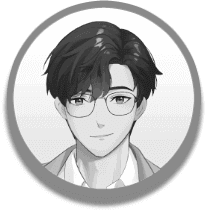
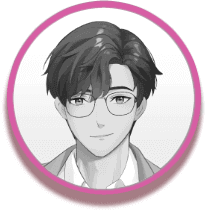
PP greyed asset changed + border 'In Progress'

diff --git a/DressupGame/src/Scripts/Loading Scene/PreloaderScene.js b/DressupGame/src/Scripts/Loading Scene/PreloaderScene.js
@@ -147,7 +147,7 @@ class PreloaderScene extends Phaser.Scene {
                 let textureToUse = '';
                 let showOutline = false;
                 let showCheckmark = false;
-            
+
                 // Tentukan state untuk bachelor ini
                 if (bachelorName === currentBachelor) {
                     textureToUse = ppData.key; // Gunakan PP berwarna
@@ -158,19 +158,15 @@ class PreloaderScene extends Phaser.Scene {
                 } else {
                     textureToUse = `${ppData.key}_Grey`; // Gunakan PP abu-abu
                 }
-            
+
                 // Gambar Outline jika perlu
                 if (showOutline && ppLayout.activeOutline) {
-                    this.add.circle(
-                        ppData.x, ppData.y,
-                        (256 / 2) * ppLayout.scale + ppLayout.activeOutline.thickness - 20,
-                        ppLayout.activeOutline.color
-                    );
+                    this.add.image(ppData.x, ppData.y, 'PP_Selected').setDepth(1).setScale(ppLayout.selectedBorderScale);
                 }
-            
+
                 // Gambar Foto Profil dengan kunci yang sudah benar
                 this.add.image(ppData.x, ppData.y, textureToUse).setScale(ppLayout.scale);
-            
+
                 // Gambar Tanda Centang jika perlu
                 if (showCheckmark) {
                     const offset = ppLayout.checkmarkOffset;

diff --git a/DressupGame/src/Scripts/ScreenOrientationUtils.js b/DressupGame/src/Scripts/ScreenOrientationUtils.js
@@ -93,6 +93,7 @@ const LANDSCAPE = {
 
     bachelorPps: {
         scale: 0.6,
+        selectedBorderScale: 0.5,
         positions: [
             { key: 'PP_Azril_Grey', x: LANDSCAPE_WIDTH - 100, y: LANDSCAPE_HEIGHT - 640 },
             { key: 'PP_Angga_Grey', x: LANDSCAPE_WIDTH - 100, y: LANDSCAPE_HEIGHT - 505 },
@@ -255,15 +256,15 @@ const LANDSCAPE = {
     },
     // Side Panel
     sidePanel: {
-        x: 1920 - 400,
+        x: 1920 - 500,
         y: 1080 / 2,
         left: 220,
         right: 0,
         top: 120,
         bottom: 0,
         panel: 30,
-        width: 800,
-        height: 1080
+        width: 900,
+        height: 1100
     },
     categorySidePanel: {
         left: 0,
@@ -763,6 +764,7 @@ const PORTRAIT = {
 
     bachelorPps: {
         scale: 0.7,
+        selectedBorderScale: 0.6,
         positions: [
             { key: 'PP_Azril', x: PORTRAIT_WIDTH * 0.85, y: PORTRAIT_HEIGHT * 0.50 },
             { key: 'PP_Angga', x: PORTRAIT_WIDTH * 0.63, y: PORTRAIT_HEIGHT * 0.50 },

diff --git a/DressupGame/src/Scripts/Scene System/CutsceneSystem.js b/DressupGame/src/Scripts/Scene System/CutsceneSystem.js
@@ -99,11 +99,7 @@ export class CutsceneSystem {
                 if (ppData) {
                     scene.bachelorPP[bachelorName].setTexture(newPPKey);
                     if (currentBachelor === bachelorName) {
-                        scene.add.circle(
-                            ppData.x, ppData.y - 1,
-                            (256 / 2) * ppLayout.scale + ppLayout.activeOutline.thickness - ppLayout.activeOutline.thicknessOffset,
-                            ppLayout.activeOutline.color
-                        ).setDepth(-1);
+                        scene.add.image(ppData.x, ppData.y, 'PP_Selected').setDepth(1).setScale(ppLayout.selectedBorderScale);
                     } else if (chosenHistory.includes(bachelorName)) {
                         scene.bachelorPP[`${bachelorName}_checkmark`] = scene.add.image(
                             ppData.x + checkmarkOffset.x,

diff --git a/DressupGame/src/Scripts/Loading Scene/BootScene.js b/DressupGame/src/Scripts/Loading Scene/BootScene.js
@@ -90,6 +90,7 @@ class BootScene extends Phaser.Scene {
         this.load.image('PP_Indra_Grey', "Asset/Character/profile picture/IndraPPgray.png");
         this.load.image('PP_Reza_Grey', "Asset/Character/profile picture/RezaPPgray.png");
         this.load.image('PP_Keenan_Grey', "Asset/Character/profile picture/KeenanPPgray.png");
+        this.load.image('PP_Selected', 'Asset/UI/New/PP_Selected.png');
 
         //tickmark untuk bachelorpp
         this.load.image('tickMark', 'Asset/UI/Checkmark.png');

diff --git a/DressupGame/src/Scripts/Minigame/MiniGameManager.js b/DressupGame/src/Scripts/Minigame/MiniGameManager.js
@@ -908,7 +908,7 @@ export class MiniGameManager {
         });
 
 
-        const sidePanel = this.scene.add.image(0, 0, 'sidePanel').setDepth(10).setScale(1.5);
+        const sidePanel = this.scene.add.image(0, 0, 'loading_frame').setDepth(10).setScale(1.5);
 
         this.innerSizer = scene.rexUI.add.sizer({
             orientation: 0,
